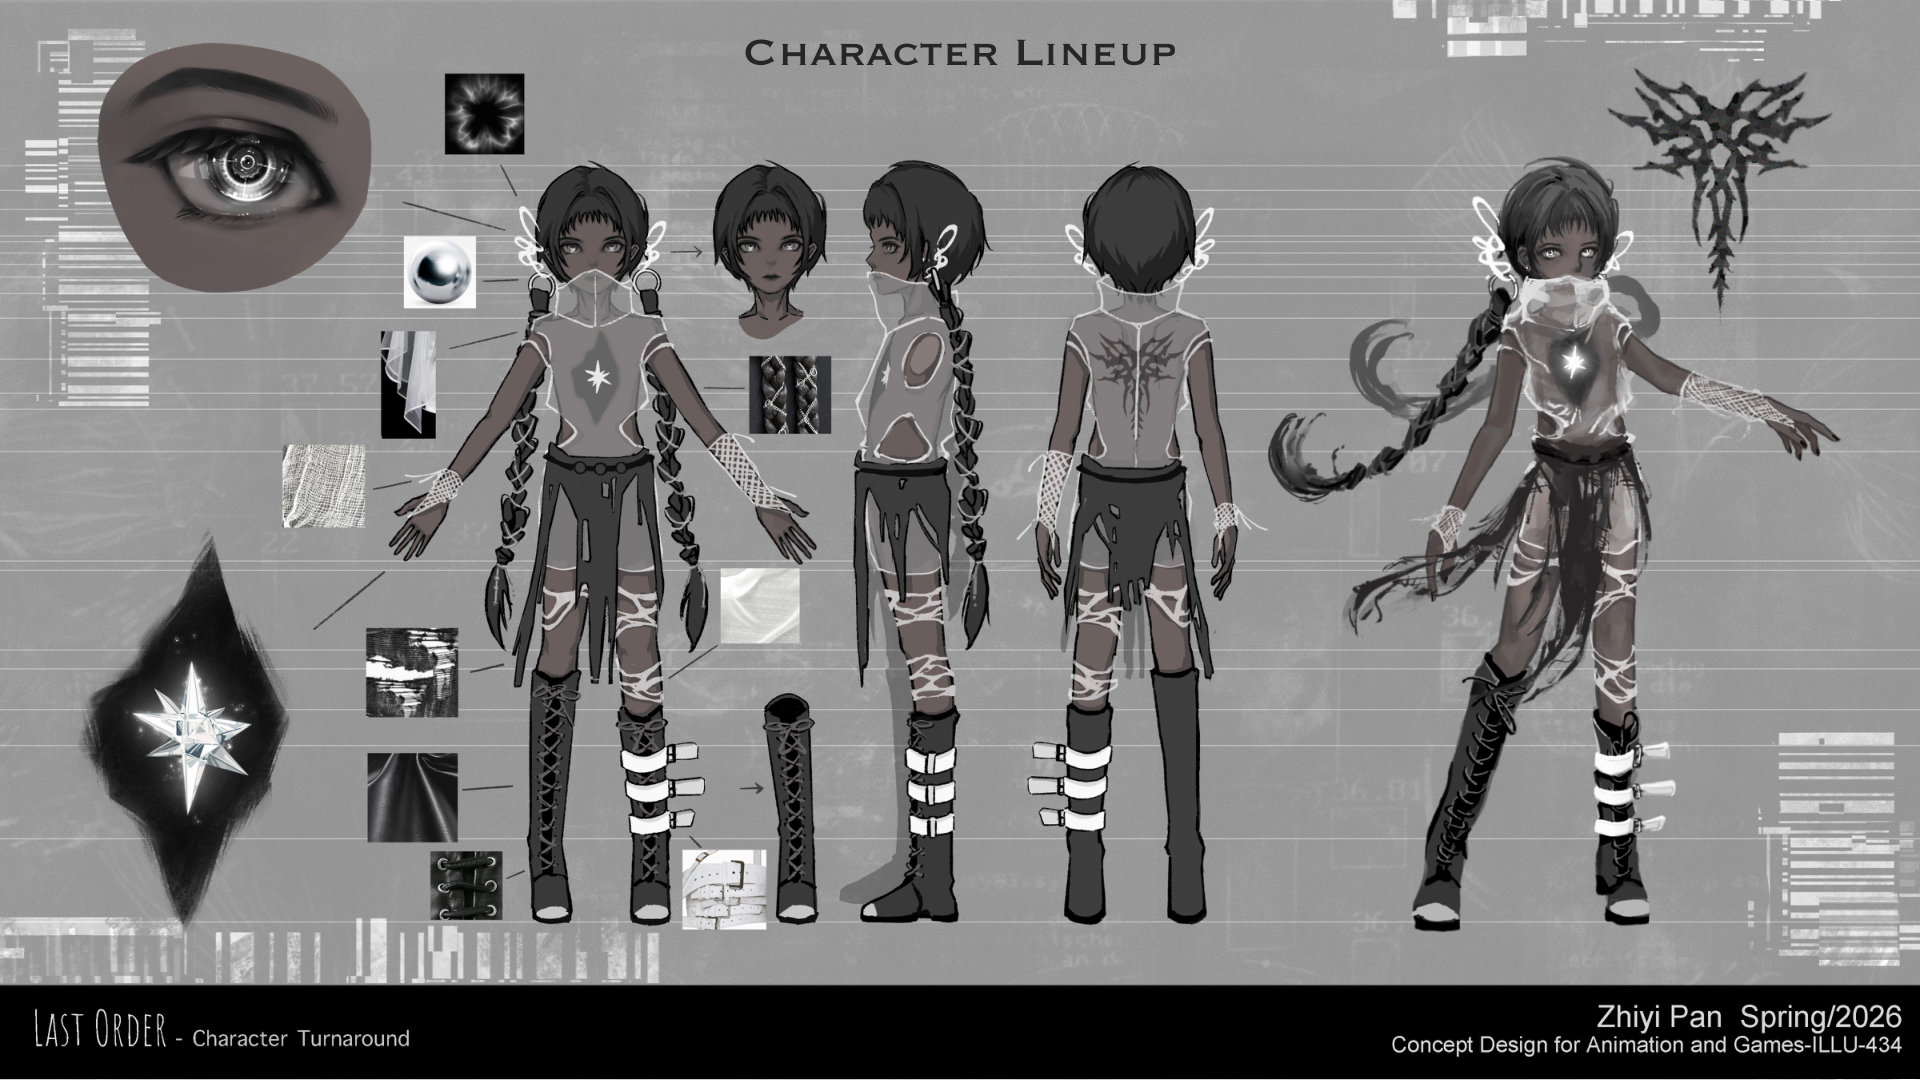
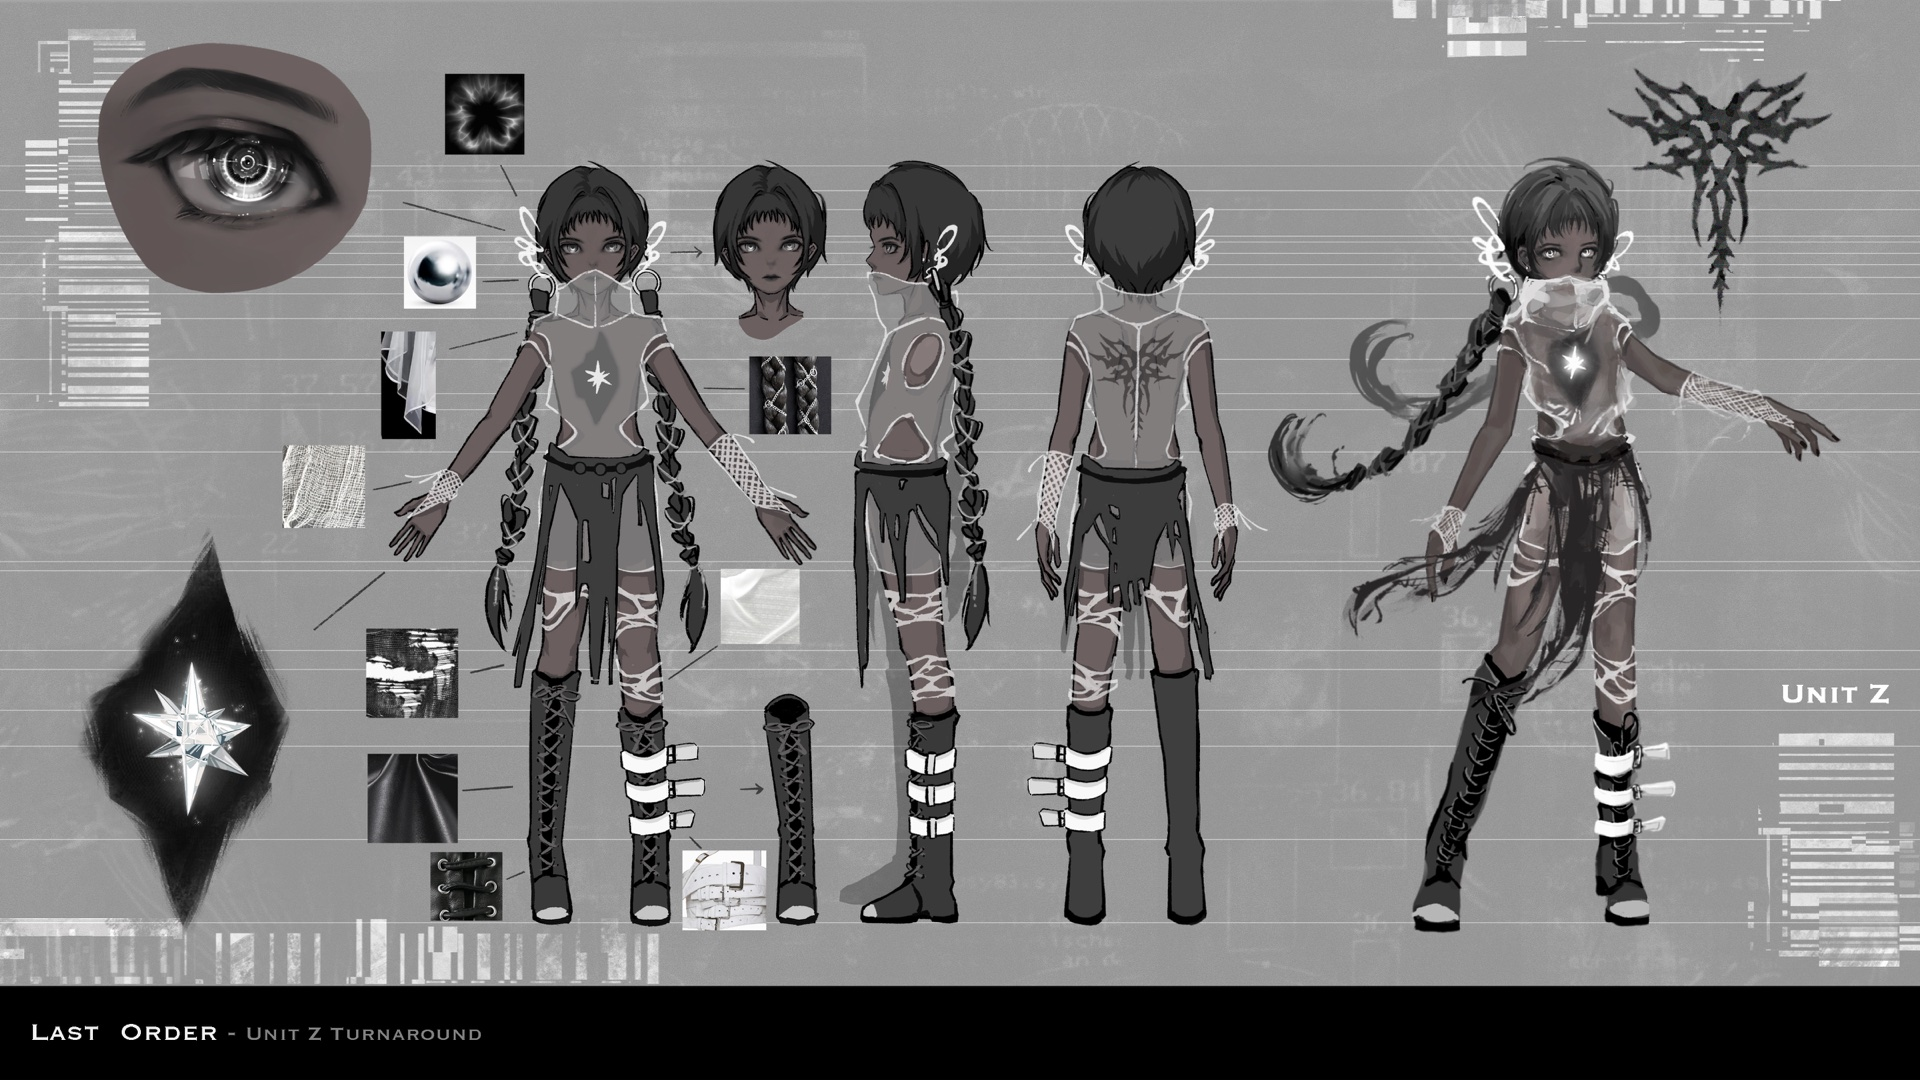
Replace Unit Z turnaround with original high-res artwork (was PDF page render)

diff --git a/js/data.js b/js/data.js
@@ -31,7 +31,7 @@ const PROJECTS = [
       { title: "CHARACTER LINEUP", src: "assets/works/p01/03-lineup.jpg" },
       { title: "UNIT Y", src: "assets/works/p01/04-unit-y.jpg" },
       { title: "UNIT Z", src: "assets/works/p01/05-unit-z.jpg" },
-      { title: "LINEUP — TURNAROUND", src: "assets/works/p01/06-turnaround.jpg" },
+      { title: "UNIT Z — TURNAROUND", src: "assets/works/p01/06-turnaround.jpg" },
       { title: "ARCH-72", src: "assets/works/p01/07-arch-72.jpg" },
       { title: "PROP DESIGN — OVERVIEW", src: "assets/works/p01/08-prop-design.jpg" },
       { title: "PROP — WHITE ECHO", src: "assets/works/p01/09-white-echo.jpg" },
